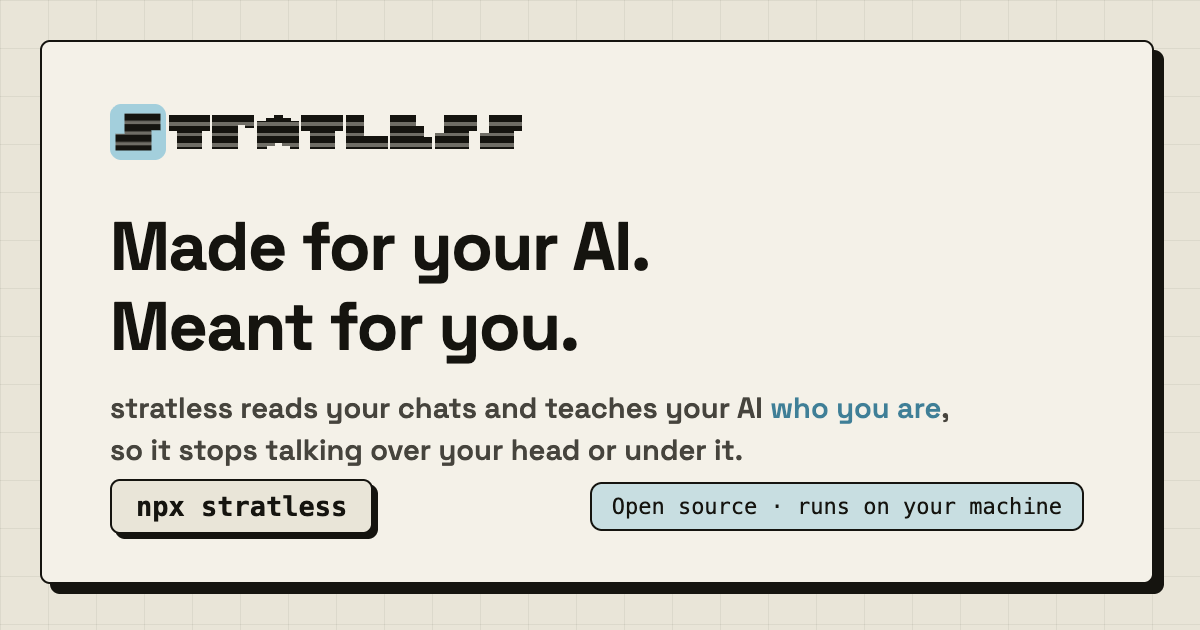
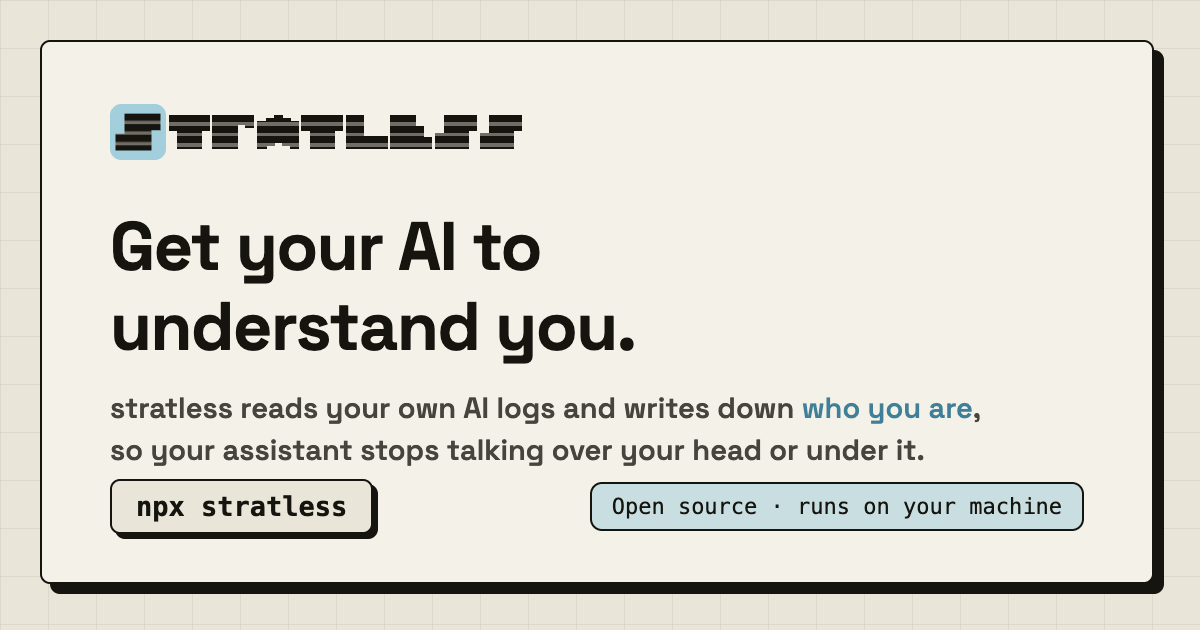
fix(web): the share card catches up to the hero (#59)
The card's contract is that it mirrors the homepage hero, so a shared link and the page
it lands on say the same thing. #58 moved the hero and left the card behind, which is
the same drift that shipped the retired couplet to every social share for eleven days
in July.

Headline and sub now match the hero. The badge deliberately does NOT: the hero can
spend its eyebrow on the proof line because "runs on your machine" is answered three
more times further down the page, and the card has no further down. One frame, one
second — local-and-open-source is the fact that stops the scroll there.

og:image and twitter:image both go to ?v=4. Both, because the buster appears twice and
bumping one leaves half the platforms on the old picture.

Regenerated headlessly per the recipe in the card's header; the render was checked for
the failure mode that bit last time, and both custom faces (Space Grotesk, Epetri)
report loaded rather than silently falling back to monospace.

Note this only fixes our half. A platform that cached the preview keeps serving the old
title and the old image URL until it re-scrapes, so the buster alone will not refresh a
card that is already in someone's cache.

Changed region(s): [[0.1233, 0.6333, 0.8325, 0.754], [0.0925, 0.3317, 0.555, 0.4524], [0.0925, 0.4825, 0.5242, 0.6032]]

diff --git a/web/scripts/og-card.html b/web/scripts/og-card.html
@@ -73,10 +73,14 @@
 </style>
 <div class="card">
   <div class="logo"><img src="/favicon.svg" alt=""><span class="wordmark">tratless</span></div>
-  <h1>Made for your AI.<br>Meant for you.</h1>
-  <p class="sub">stratless reads your chats and teaches your AI <b>who you are</b>,<br>so it stops talking over your head or under it.</p>
+  <h1>Get your AI to<br>understand you.</h1>
+  <p class="sub">stratless reads your own AI logs and writes down <b>who you are</b>,<br>so your assistant stops talking over your head or under it.</p>
   <div class="foot">
     <span class="pill">npx stratless</span>
+    <!-- Deliberately NOT the hero's eyebrow, which is now the proof line. The hero can spend its
+         eyebrow that way because "runs on your machine" is answered three more times further down
+         the page; the card has no further down. One frame, one second, and for the reader this is
+         aimed at, local-and-open-source is the fact that stops the scroll. -->
     <span class="badge">Open source · runs on your machine</span>
   </div>
 </div>

diff --git a/web/nuxt.config.ts b/web/nuxt.config.ts
@@ -68,11 +68,11 @@ export default defineNuxtConfig({
         { property: 'og:title', content: TITLE },
         { property: 'og:description', content: DESC },
         { property: 'og:url', content: `${URL}/` }, // match the canonical's trailing slash
-        { property: 'og:image', content: `${URL}/og.png?v=3` },
+        { property: 'og:image', content: `${URL}/og.png?v=4` },
         { name: 'twitter:card', content: 'summary_large_image' },
         { name: 'twitter:title', content: TITLE },
         { name: 'twitter:description', content: DESC },
-        { name: 'twitter:image', content: `${URL}/og.png?v=3` },
+        { name: 'twitter:image', content: `${URL}/og.png?v=4` },
       ],
     },
   },
